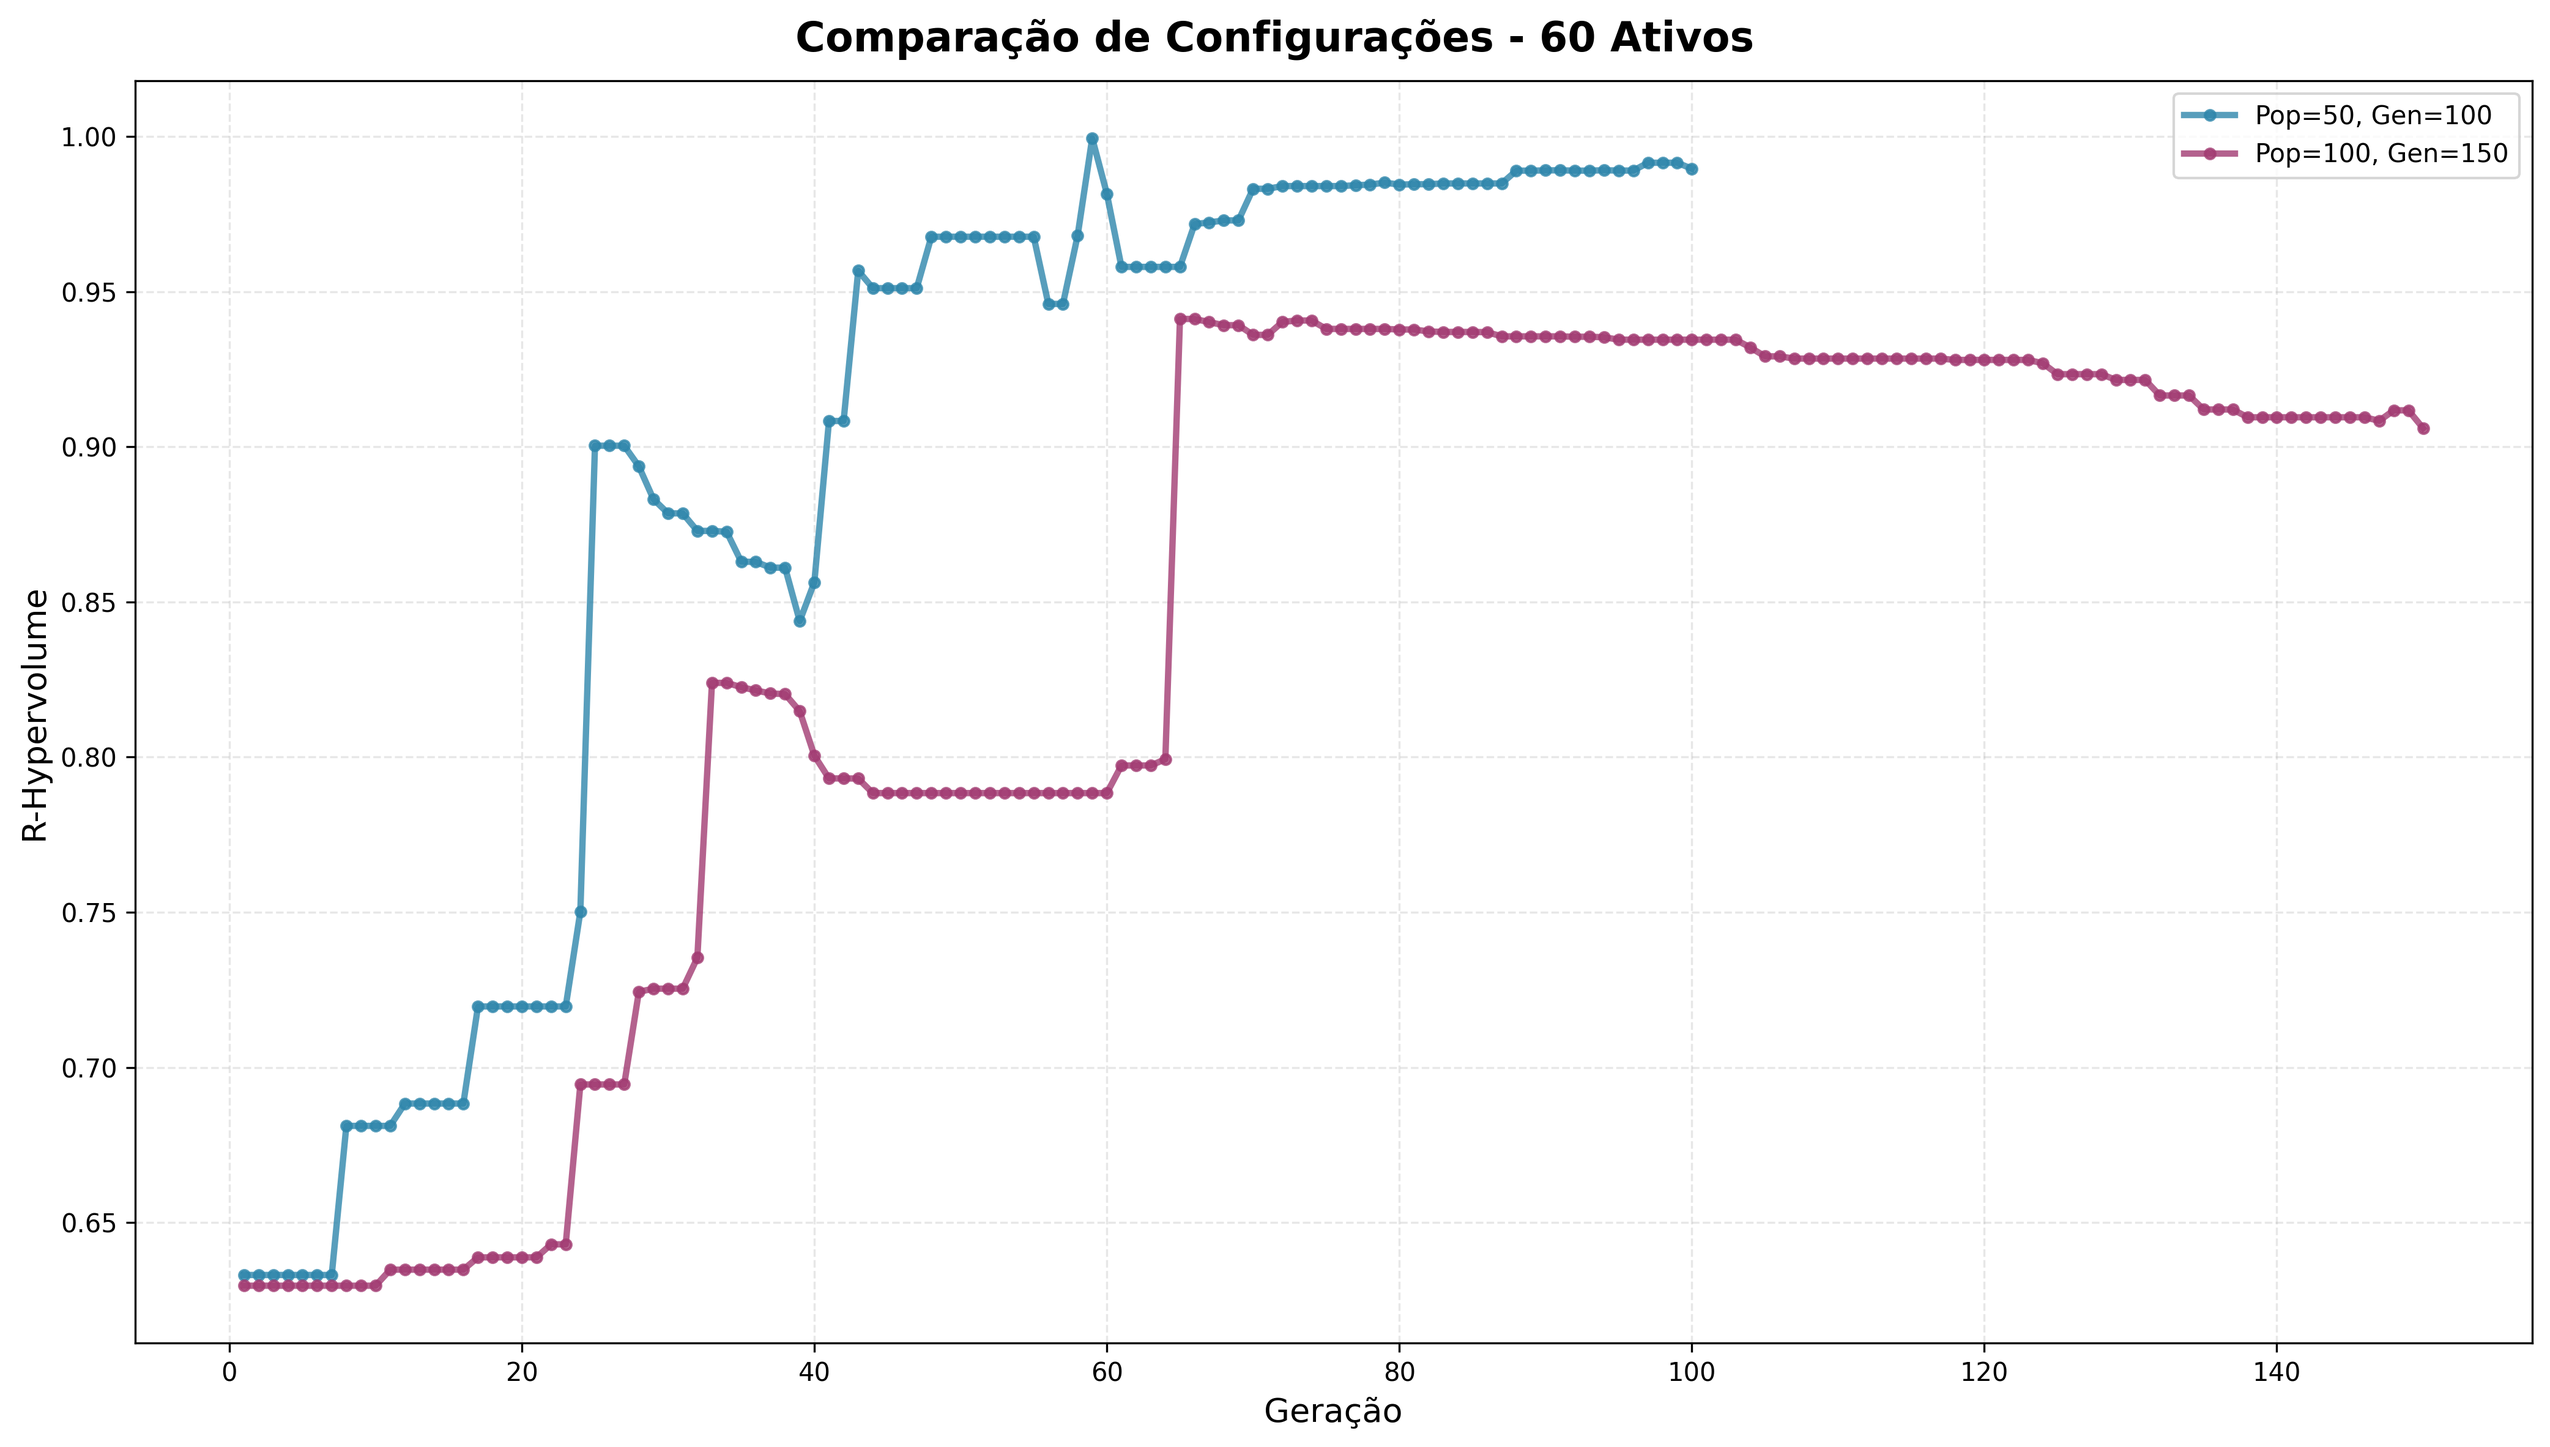
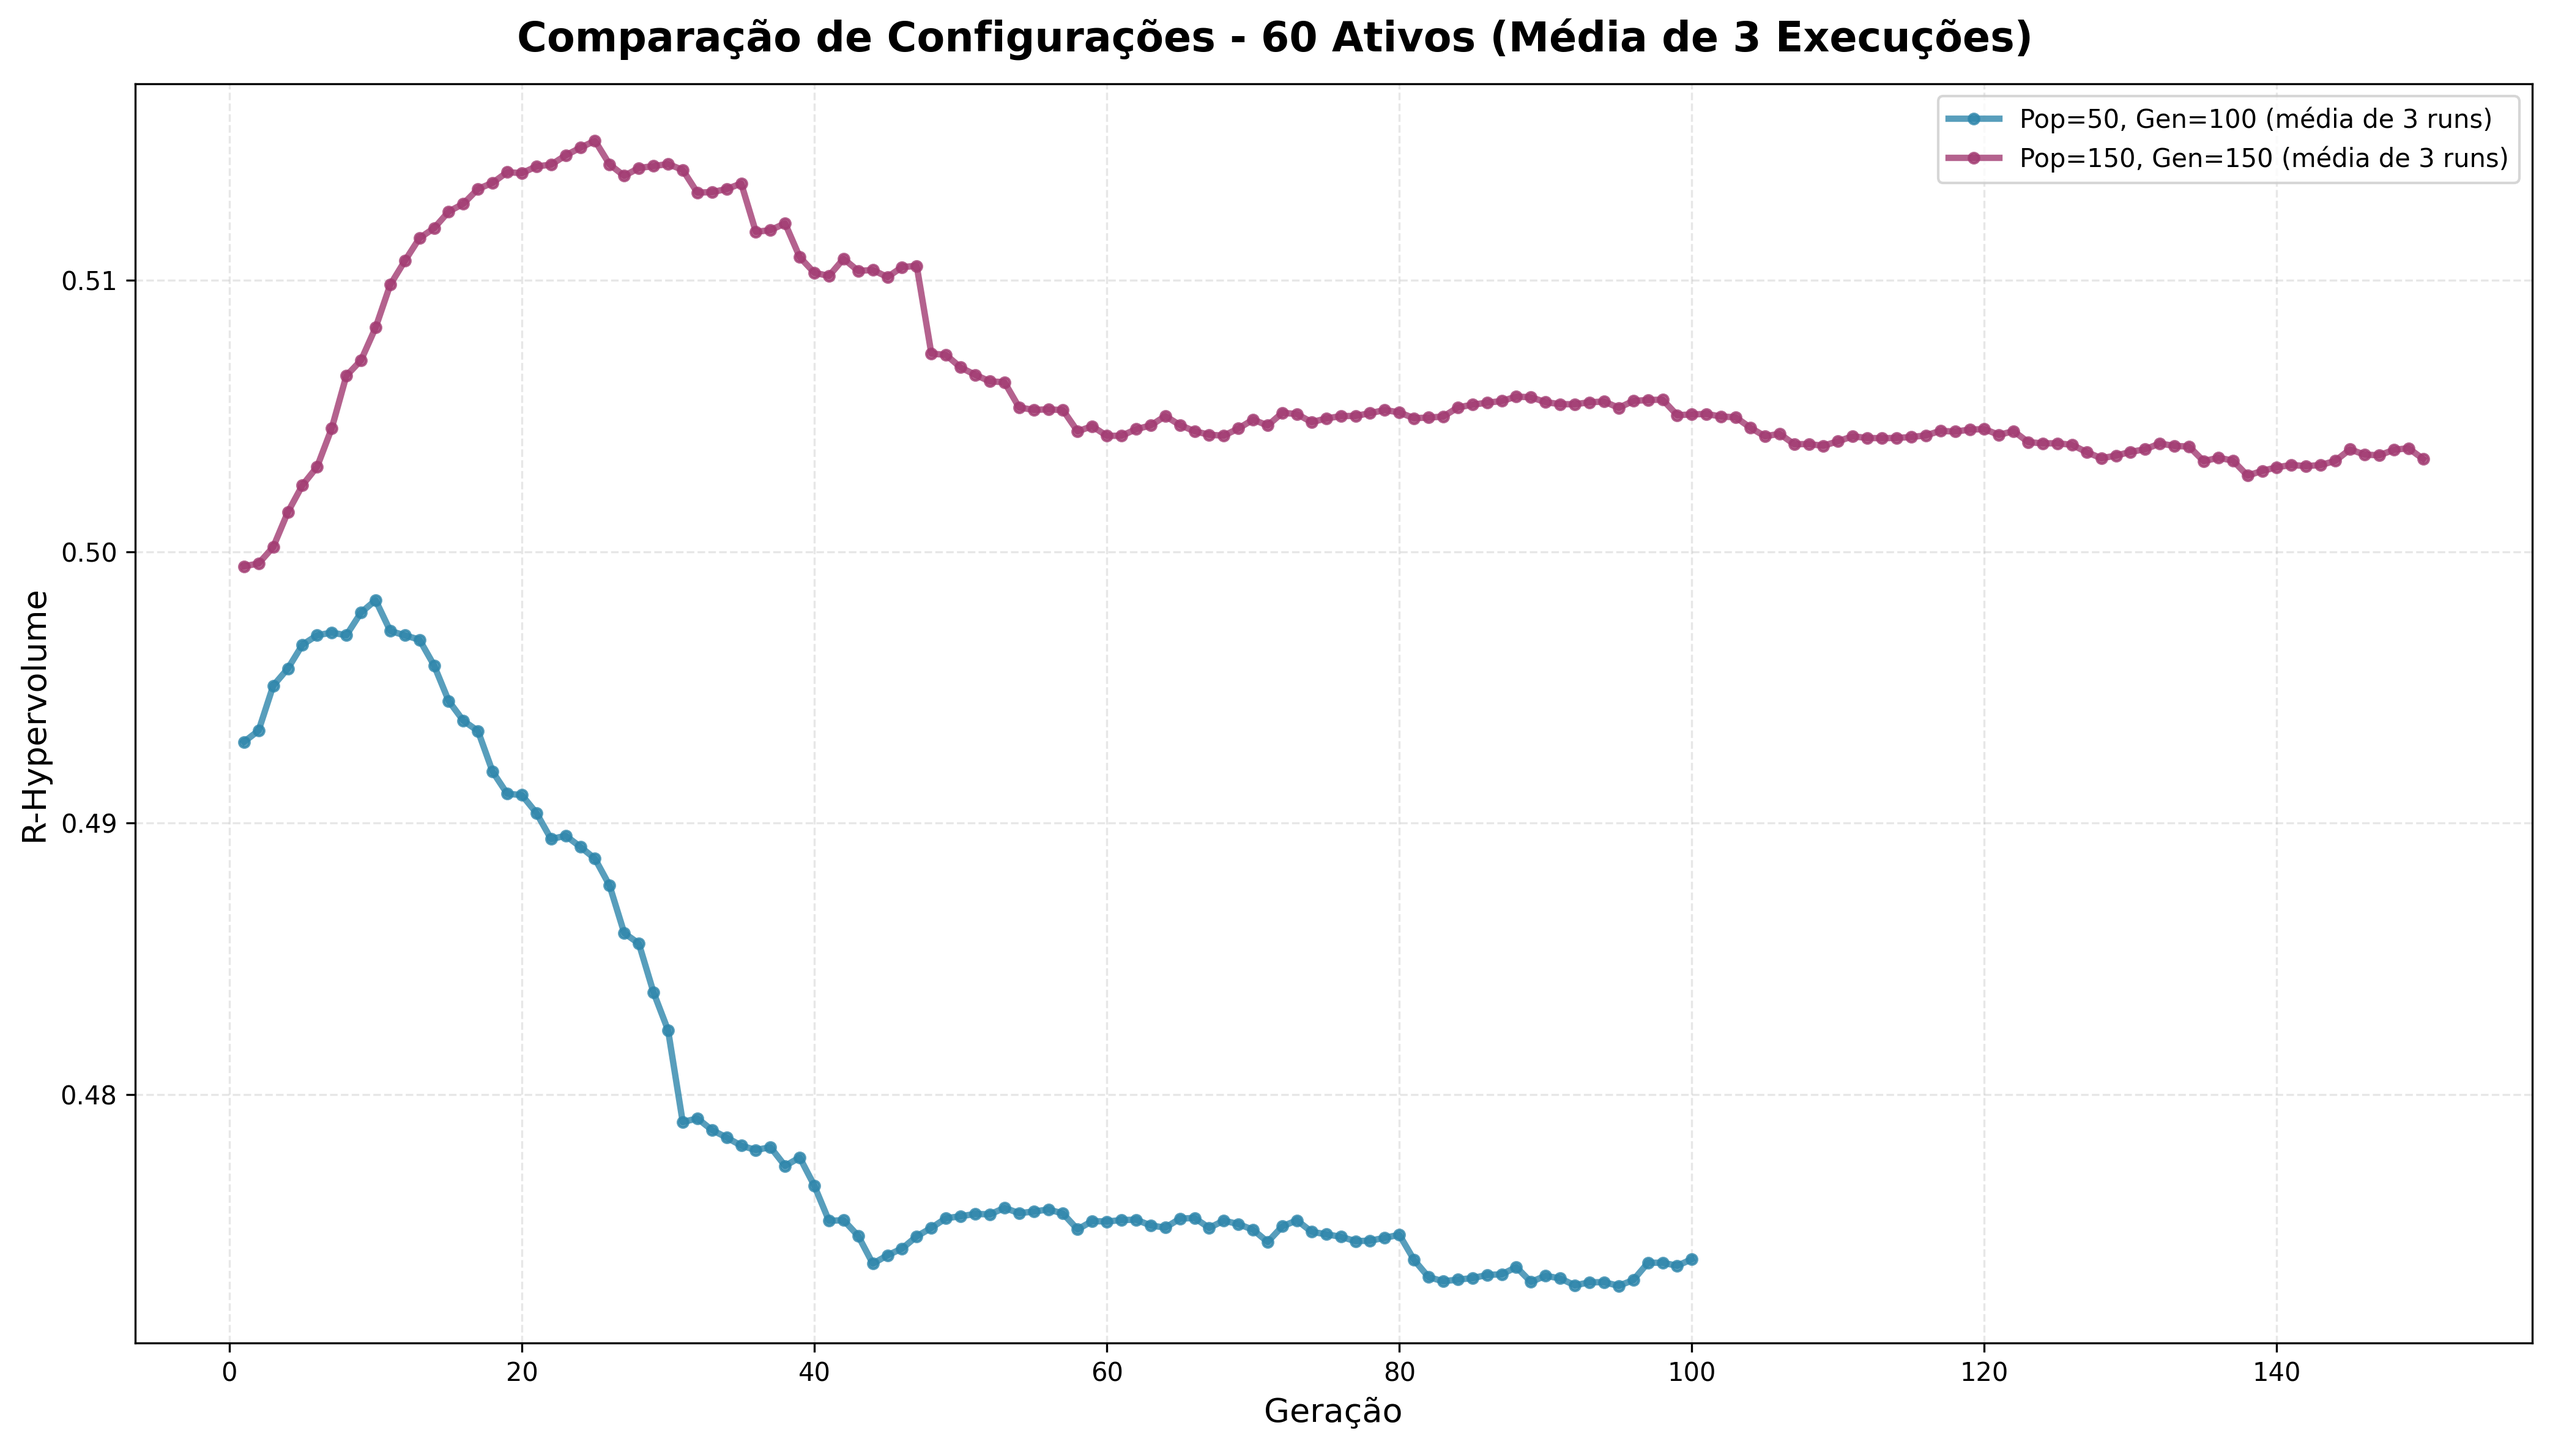
Usando reference points fixos

diff --git a/backend/services/agmo/tuning/convergence_tracking.py b/backend/services/agmo/tuning/convergence_tracking.py
@@ -15,7 +15,9 @@ from app import create_app
 from services.agmo.agmo_service import (
     Nsga2OtimizacaoService,
     REFERENCE_POINTS_CONFIG,
-    WEIGHTS_CONFIG
+    WEIGHTS_CONFIG,
+    IDEAL_POINT_PORTFOLIO,
+    NADIR_POINT_PORTFOLIO
 )
 from services.agmo.tuning import (
     ConvergenceTracker,
@@ -147,13 +149,31 @@ def exemplo_comparacao_multiplas_execucoes():
     # ]
 
     # Array de quantidades de ativos para testar
-    asset_quantities = [30]
+    asset_quantities = [60]
 
     # Configurações de população e gerações para testar
     configs = [
         {'pop': 50, 'gen': 100},
-        {'pop': 100, 'gen': 150},
+        {'pop': 150, 'gen': 150},
     ]
+
+    # Usa pontos de referência TEÓRICOS fixos para normalização consistente
+    # Isso evita que o R-Hypervolume caia quando o R-NSGA2 elimina diversidade
+    # (comportamento esperado do algoritmo ao convergir para o reference point)
+    fixed_ideal_point = IDEAL_POINT_PORTFOLIO.copy()
+    fixed_nadir_point = NADIR_POINT_PORTFOLIO.copy()
+
+    print(f"\n📐 USANDO PONTOS DE REFERÊNCIA TEÓRICOS FIXOS:")
+    print(f"   Ideal point (melhor caso teórico): {fixed_ideal_point}")
+    print(f"     Retorno: {-fixed_ideal_point[0]*100:.2f}%/mês")
+    print(f"     Volatilidade: {fixed_ideal_point[1]*100:.3f}%/mês")
+    print(f"     Max Drawdown: {fixed_ideal_point[2]*100:.1f}%")
+    print(f"\n   Nadir point (pior caso aceitável): {fixed_nadir_point}")
+    print(f"     Retorno: {-fixed_nadir_point[0]*100:.2f}%/mês")
+    print(f"     Volatilidade: {fixed_nadir_point[1]*100:.3f}%/mês")
+    print(f"     Max Drawdown: {fixed_nadir_point[2]*100:.1f}%")
+    print(f"\n   🔒 Estes valores serão FIXOS para todas as comparações!")
+    print(f"   ✅ R-Hypervolume não cairá artificialmente ao convergir\n")
 
     # Para cada quantidade de ativos
     for num_assets in asset_quantities:
@@ -180,7 +200,7 @@ def exemplo_comparacao_multiplas_execucoes():
             run_histories = []
 
             # Executa 3 vezes a mesma configuração
-            for run_num in range(1, 6):
+            for run_num in range(1, 21):
                 print(f"\n   🔄 Execução {run_num}/3...")
 
                 service = Nsga2OtimizacaoService(
@@ -193,7 +213,9 @@ def exemplo_comparacao_multiplas_execucoes():
 
                 tracker = ConvergenceTracker(
                     reference_points_rnsga2=REFERENCE_POINTS_CONFIG[risk_level],
-                    weights=WEIGHTS_CONFIG[risk_level]
+                    weights=WEIGHTS_CONFIG[risk_level],
+                    fixed_ideal_point=fixed_ideal_point,
+                    fixed_nadir_point=fixed_nadir_point
                 )
 
                 # Mede tempo de execução
